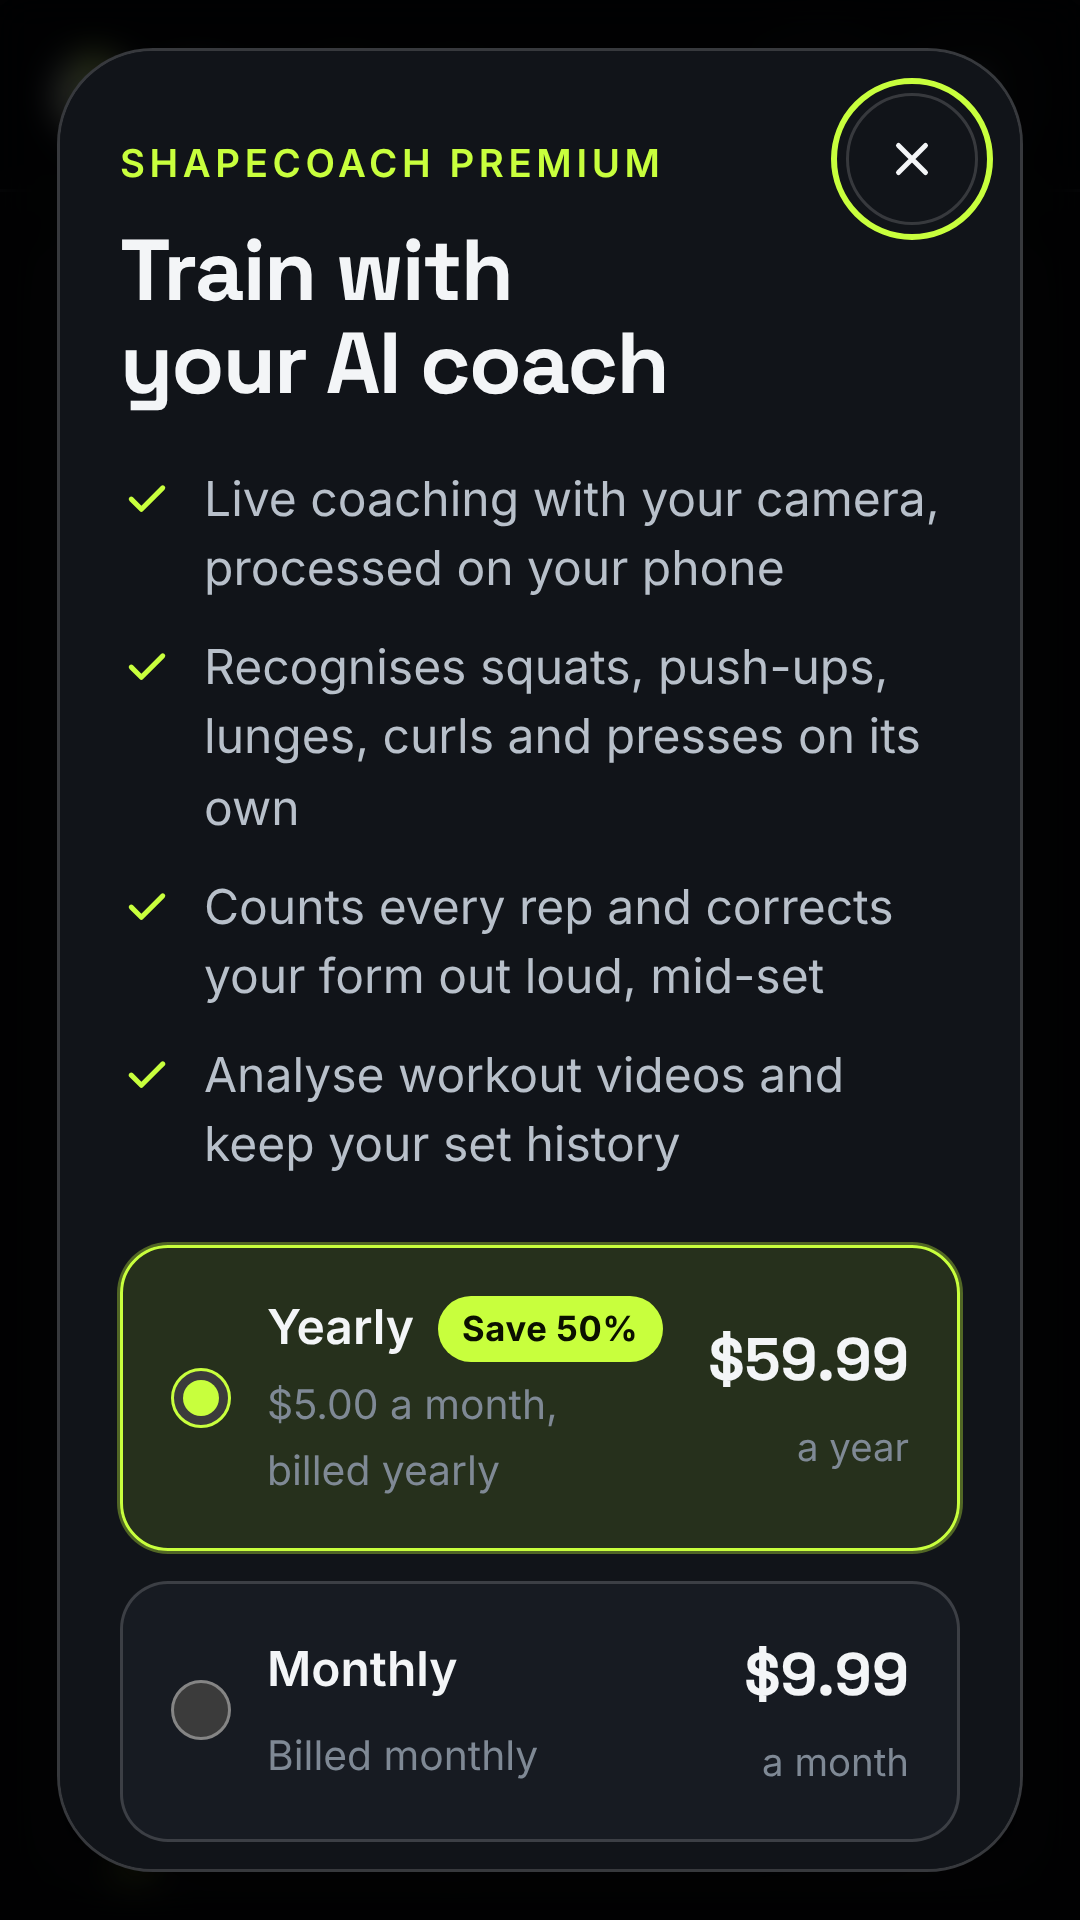
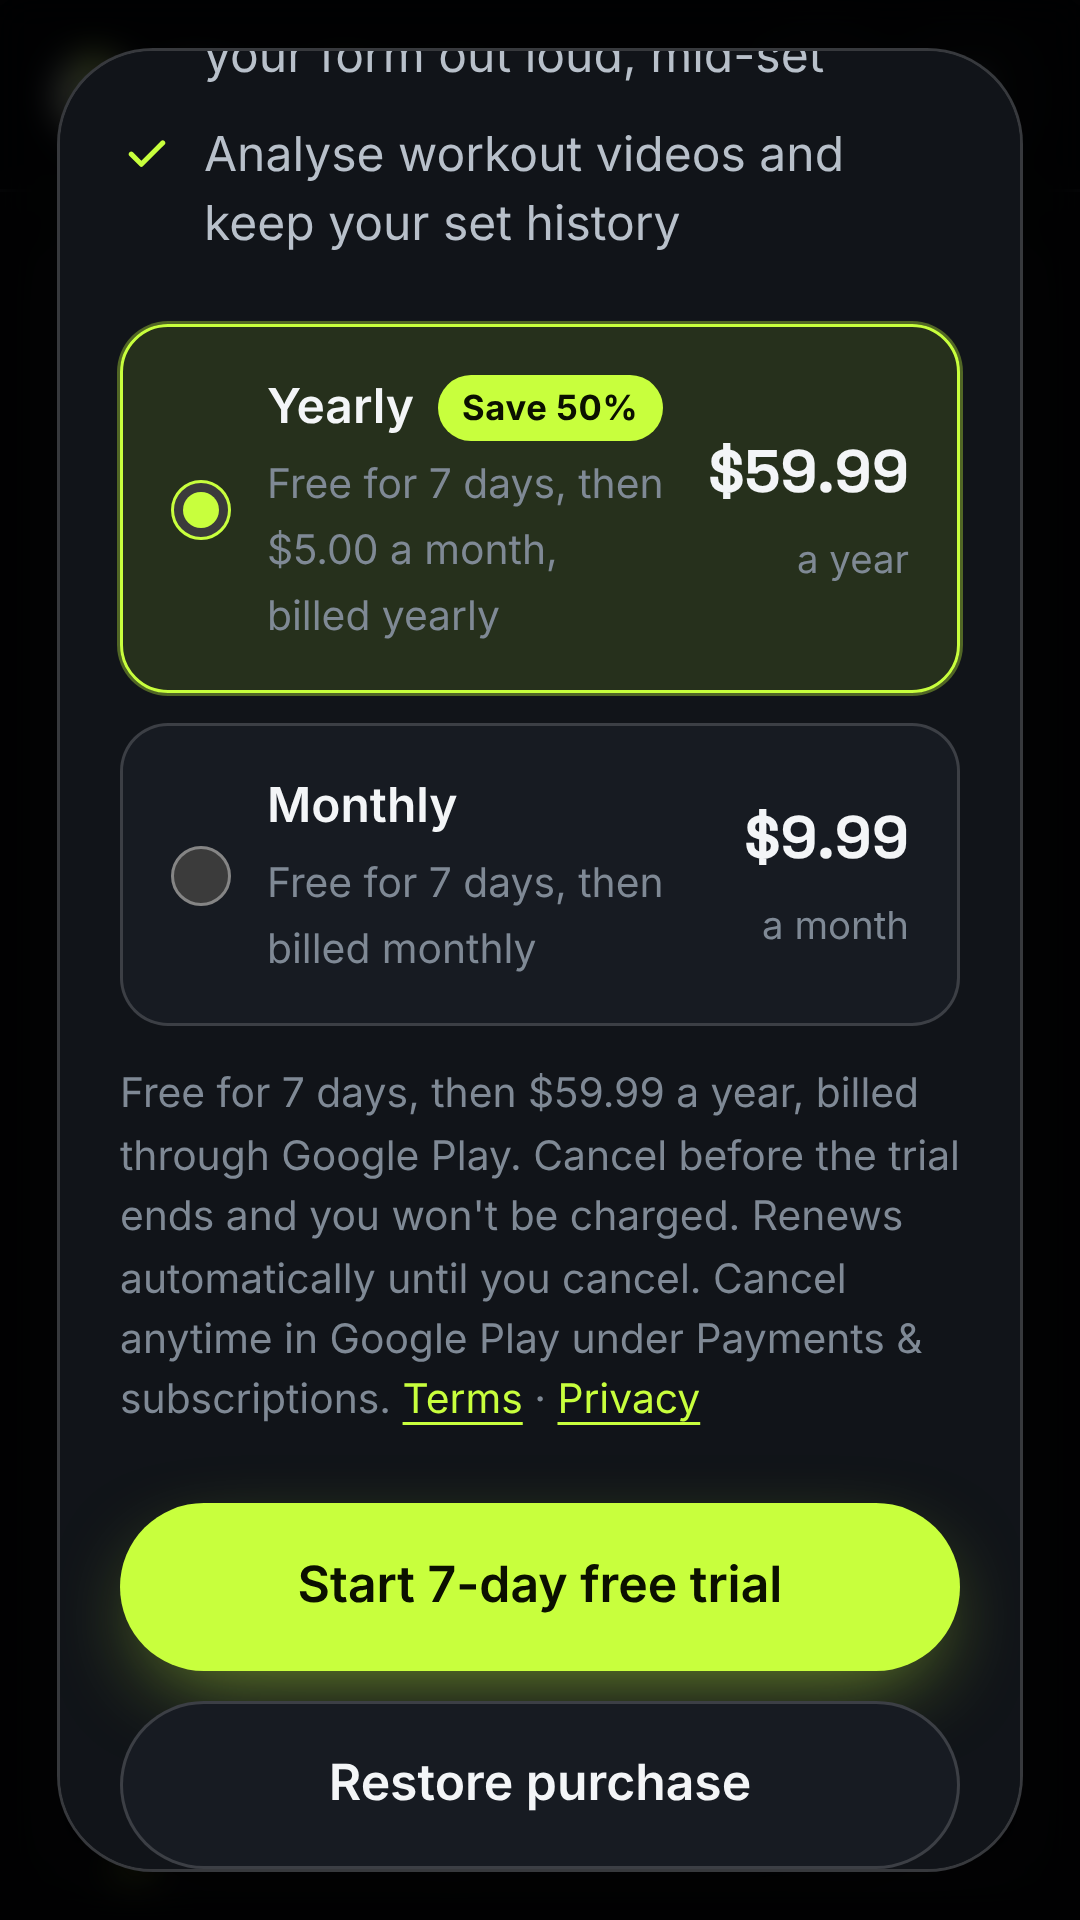
Show the 7-day free trial on the Premium screen
When Google Play reports a free trial for a plan (it only does for people who are
eligible), the plan card reads "Free for 7 days, then ...", the button becomes
"Start 7-day free trial" and the billing line states the price after the trial
and that cancelling during it costs nothing. Without a trial nothing changes.

Terms, FAQ, Play guide (a free-trial offer on both base plans, new customers
only), README and the Premium store screenshot updated.

Claude-Session: https://claude.ai/code/session_01N8dEFYZj9auM1hcHTL6znY

diff --git a/assets/js/app/main.js b/assets/js/app/main.js
@@ -1167,6 +1167,7 @@ const premium = {
 const paywall = {
   dialog: $('paywall-dialog'),
   plans: $('paywall-plans'),
+  billing: $('paywall-billing'),
   error: $('paywall-error'),
   subscribe: $('paywall-subscribe'),
   restore: $('paywall-restore'),
@@ -1195,13 +1196,13 @@ function renderPlans() {
   const cards = premium.plans.map((plan) => {
     const card = document.createElement('label');
     card.className = 'plan';
-    card.classList.toggle('is-selected', plan.id === premium.selected);
     const input = Object.assign(document.createElement('input'), { type: 'radio', name: 'plan', value: plan.id, checked: plan.id === premium.selected });
     const name = Object.assign(document.createElement('span'), { className: 'plan-name', textContent: plan.name });
     if (plan.save) name.append(Object.assign(document.createElement('span'), { className: 'plan-badge', textContent: `Save ${plan.save}%` }));
+    const billing = plan.perMonth ? `${plan.perMonth} a month, billed ${plan.name.toLowerCase()}` : `billed ${plan.name.toLowerCase()}`;
     const note = Object.assign(document.createElement('span'), {
       className: 'plan-note',
-      textContent: plan.perMonth ? `${plan.perMonth} a month, billed ${plan.name.toLowerCase()}` : `Billed ${plan.name.toLowerCase()}`,
+      textContent: plan.trial ? `Free for ${plan.trial.length}, then ${billing}` : billing.charAt(0).toUpperCase() + billing.slice(1),
     });
     const price = Object.assign(document.createElement('span'), { className: 'plan-price' });
     price.append(Object.assign(document.createElement('strong'), { textContent: plan.amount }), Object.assign(document.createElement('small'), { textContent: plan.period }));
@@ -1209,6 +1210,20 @@ function renderPlans() {
     return card;
   });
   paywall.plans.replaceChildren(...cards);
+  renderSelection();
+}
+
+/** The button and billing line follow the selected plan, including its free trial if any. */
+function renderSelection() {
+  const plan = premium.plans.find((p) => p.id === premium.selected);
+  for (const card of paywall.plans.querySelectorAll('.plan')) {
+    card.classList.toggle('is-selected', card.querySelector('input').value === premium.selected);
+  }
+  if (!plan) return;
+  paywall.subscribe.textContent = plan.trial ? `Start ${plan.trial.short} free trial` : 'Subscribe';
+  paywall.billing.textContent = plan.trial
+    ? `Free for ${plan.trial.length}, then ${plan.amount} ${plan.period}, billed through Google Play. Cancel before the trial ends and you won't be charged.`
+    : `Billed through Google Play: ${plan.amount} ${plan.period}.`;
 }
 
 function renderPremium() {
@@ -1220,7 +1235,7 @@ function renderPremium() {
   row.classList.toggle('is-active', premium.active);
   $('sub-status').textContent = premium.active
     ? 'Active. Thanks for training with ShapeCoach.'
-    : `Not subscribed · ${premium.plans.map((plan) => `${plan.amount} ${plan.period}`).join(' or ')}`;
+    : `Not subscribed · ${premium.plans.some((plan) => plan.trial) ? `${premium.plans.find((plan) => plan.trial).trial.length} free, then ` : ''}${premium.plans.map((plan) => `${plan.amount} ${plan.period}`).join(' or ')}`;
   $('sub-manage').href = manageUrl(premium.activePlan);
   $('sub-manage').hidden = !premium.active;
   $('sub-subscribe').hidden = premium.active;
@@ -1293,7 +1308,7 @@ async function onRestore() {
 paywall.plans.addEventListener('change', (event) => {
   if (event.target.name !== 'plan') return;
   premium.selected = event.target.value;
-  for (const card of paywall.plans.querySelectorAll('.plan')) card.classList.toggle('is-selected', card.contains(event.target));
+  renderSelection();
 });
 paywall.subscribe.addEventListener('click', onSubscribe);
 paywall.restore.addEventListener('click', onRestore);

diff --git a/assets/js/app/billing.js b/assets/js/app/billing.js
@@ -62,6 +62,17 @@ export function periodLabel(iso) {
   return count === 1 ? `a ${unit}` : `every ${count} ${unit}s`;
 }
 
+/**
+ * A free trial's length from an ISO 8601 period: P7D or P1W → { length: '7 days', short: '7-day' }.
+ * null when there is no trial.
+ */
+export function trialLabel(iso) {
+  const match = /^P(\d+)([DWM])$/.exec(String(iso ?? ''));
+  if (!match || Number(match[1]) === 0) return null;
+  const [count, unit] = match[2] === 'W' ? [Number(match[1]) * 7, 'day'] : [Number(match[1]), match[2] === 'D' ? 'day' : 'month'];
+  return { length: `${count} ${unit}${count === 1 ? '' : 's'}`, short: `${count}-${unit}` };
+}
+
 /** Length of a P<n>M or P<n>Y period in months; null for other periods. */
 function months(iso) {
   const match = /^P(\d+)([MY])$/.exec(String(iso ?? ''));
@@ -70,16 +81,22 @@ function months(iso) {
 
 /**
  * The plans as the paywall shows them, with Google Play's prices where it gave them.
- * @returns {Array<{id: string, name: string, amount: string, period: string, perMonth: string|null, save: number|null}>}
+ * @returns {Array<{id: string, name: string, amount: string, period: string, perMonth: string|null, save: number|null, trial: {length: string, short: string}|null}>}
  */
 export function describePlans(details = [], locale) {
   const plans = PLANS.map((plan) => {
     const item = details.find((d) => d.itemId === plan.id);
     const fromPlay = item?.price?.currency && item.price.value !== undefined;
-    return { id: plan.id, price: fromPlay ? item.price : plan.listPrice, period: (fromPlay && item.subscriptionPeriod) || plan.period };
+    return {
+      id: plan.id,
+      price: fromPlay ? item.price : plan.listPrice,
+      period: (fromPlay && item.subscriptionPeriod) || plan.period,
+      // Google Play reports a trial only to people eligible for it (new subscribers).
+      trial: fromPlay ? trialLabel(item.freeTrialPeriod) : null,
+    };
   });
   const monthly = plans.find((plan) => months(plan.period) === 1);
-  return plans.map(({ id, price, period }) => {
+  return plans.map(({ id, price, period, trial }) => {
     const length = months(period);
     const perMonth = length > 1 ? formatPrice({ currency: price.currency, value: Number(price.value) / length }, locale) : null;
     // Saving against paying monthly for the same time, only when both prices share a currency.
@@ -93,6 +110,7 @@ export function describePlans(details = [], locale) {
       period: periodLabel(period) ?? '',
       perMonth,
       save: save > 0 ? save : null,
+      trial,
     };
   });
 }

diff --git a/tests/billing.test.js b/tests/billing.test.js
@@ -3,7 +3,7 @@ import assert from 'node:assert/strict';
 import { generateKeyPairSync, createVerify } from 'node:crypto';
 
 import {
-  inAndroidApp, formatPrice, periodLabel, premiumStatus, subscribe, verifyPurchase, acknowledgeOwned, describePlans, manageUrl,
+  inAndroidApp, formatPrice, periodLabel, premiumStatus, subscribe, verifyPurchase, acknowledgeOwned, describePlans, manageUrl, trialLabel,
   PLAY_BILLING, PLAN_IDS, DEFAULT_PLAN,
 } from '../assets/js/app/billing.js';
 import handler, { signedAssertion, verifyAndAcknowledge, PACKAGE_NAME, PRODUCT_IDS } from '../api/verify-purchase.js';
@@ -55,9 +55,23 @@ test('two plans: yearly (the default, best value) and monthly, at their list pri
   assert.equal(DEFAULT_PLAN, YEARLY);
   assert.deepEqual(PRODUCT_IDS.slice().sort(), PLAN_IDS.slice().sort(), 'the server accepts exactly the app\'s plans');
   assert.deepEqual(describePlans([], 'en-US'), [
-    { id: YEARLY, name: 'Yearly', amount: '$59.99', period: 'a year', perMonth: '$5.00', save: 50 },
-    { id: MONTHLY, name: 'Monthly', amount: '$9.99', period: 'a month', perMonth: null, save: null },
+    { id: YEARLY, name: 'Yearly', amount: '$59.99', period: 'a year', perMonth: '$5.00', save: 50, trial: null },
+    { id: MONTHLY, name: 'Monthly', amount: '$9.99', period: 'a month', perMonth: null, save: null, trial: null },
   ]);
+});
+
+test('a free trial is shown only when Google Play reports one for this person', () => {
+  assert.deepEqual(trialLabel('P7D'), { length: '7 days', short: '7-day' });
+  assert.deepEqual(trialLabel('P1W'), { length: '7 days', short: '7-day' });
+  assert.deepEqual(trialLabel('P1M'), { length: '1 month', short: '1-month' });
+  assert.equal(trialLabel(''), null);
+  assert.equal(trialLabel(undefined), null);
+  const withTrial = describePlans([
+    { itemId: YEARLY, price: { currency: 'USD', value: '59.99' }, subscriptionPeriod: 'P1Y', freeTrialPeriod: 'P7D' },
+    { itemId: MONTHLY, price: { currency: 'USD', value: '9.99' }, subscriptionPeriod: 'P1M', freeTrialPeriod: '' },
+  ], 'en-US');
+  assert.deepEqual(withTrial.map((p) => p.trial), [{ length: '7 days', short: '7-day' }, null], 'already used the monthly trial');
+  assert.ok(describePlans([], 'en-US').every((p) => p.trial === null), 'no promise of a trial before Google Play answers');
 });
 
 test('plans use Google Play\'s local prices, and the saving follows them', () => {

diff --git a/index.html b/index.html
@@ -89,7 +89,7 @@
           </div>
           <ul class="hero-proof">
             <li><svg aria-hidden="true"><use href="#i-check"/></svg> No exercise to pick</li>
-            <li><svg aria-hidden="true"><use href="#i-check"/></svg> Free to download</li>
+            <li><svg aria-hidden="true"><use href="#i-check"/></svg> Free to download, 7 days free</li>
             <li><svg aria-hidden="true"><use href="#i-check"/></svg> No account needed</li>
             <li><svg aria-hidden="true"><use href="#i-check"/></svg> Video never leaves your phone</li>
           </ul>
@@ -319,7 +319,7 @@
           </details>
           <details>
             <summary>How much does it cost?</summary>
-            <p>ShapeCoach is free to download from Google Play. The live coach and video analysis are part of ShapeCoach Premium: US$9.99 a month, or US$59.99 a year (half the monthly price), billed by Google Play (the price in your currency is shown before you pay). It renews at the end of each month or year until you cancel, which you can do at any time in Google Play under Payments &amp; subscriptions. A short demo inside the app is free.</p>
+            <p>ShapeCoach is free to download from Google Play. The live coach and video analysis are part of ShapeCoach Premium, which new subscribers can try free for 7 days. After that it is US$9.99 a month, or US$59.99 a year (half the monthly price), billed by Google Play (the price in your currency is shown before you pay). It renews at the end of each month or year until you cancel, which you can do at any time in Google Play under Payments &amp; subscriptions. A short demo inside the app is free.</p>
           </details>
           <details>
             <summary>Can I use ShapeCoach in my browser?</summary>

diff --git a/terms.html b/terms.html
@@ -25,7 +25,7 @@
   </header>
   <main class="doc container">
     <h1>Terms of use</h1>
-    <p class="doc-meta">Last updated: 23 October 2026</p>
+    <p class="doc-meta">Last updated: 24 October 2026</p>
 
     <p>These terms apply to the ShapeCoach Android app and the ShapeCoach website, which describes the app. By using ShapeCoach you agree to them.</p>
 
@@ -35,6 +35,7 @@
     <h2>ShapeCoach Premium subscription</h2>
     <ul>
       <li><strong>Plans and prices:</strong> Monthly, US$9.99 per month, or Yearly, US$59.99 per year. Google Play shows the price in your local currency, including any taxes, before you confirm.</li>
+      <li><strong>Free trial:</strong> new subscribers can start either plan with a 7-day free trial. Google Play decides who is eligible (one trial per person) and shows the trial before you confirm. If you cancel before the trial ends, you won't be charged; otherwise the plan's price is charged when the trial ends.</li>
       <li><strong>Billing:</strong> your Google Play account is charged when you confirm the purchase (or when a free trial ends, if one is offered), and then at the start of each billing period: every month on the Monthly plan, every year on the Yearly plan.</li>
       <li><strong>Automatic renewal:</strong> the subscription renews automatically at the end of each billing period until you cancel.</li>
       <li><strong>Cancelling:</strong> cancel at any time in the Google Play Store app under <strong>Profile › Payments &amp; subscriptions › Subscriptions › ShapeCoach</strong>, or at <a class="text-link" href="https://play.google.com/store/account/subscriptions">play.google.com/store/account/subscriptions</a>. You keep Premium until the end of the period you have paid for.</li>

diff --git a/app.html b/app.html
@@ -251,7 +251,7 @@
         <li><svg aria-hidden="true"><use href="#i-check"/></svg> Analyse workout videos and keep your set history</li>
       </ul>
       <div class="paywall-plans" id="paywall-plans" role="radiogroup" aria-label="Choose a plan"></div>
-      <p class="paywall-terms">Billed through Google Play at the start of each month or year. Renews automatically until you cancel. Cancel anytime in Google Play under Payments &amp; subscriptions. <a class="text-link" href="terms.html">Terms</a> · <a class="text-link" href="privacy.html">Privacy</a></p>
+      <p class="paywall-terms"><span id="paywall-billing">Billed through Google Play at the start of each month or year.</span> Renews automatically until you cancel. Cancel anytime in Google Play under Payments &amp; subscriptions. <a class="text-link" href="terms.html">Terms</a> · <a class="text-link" href="privacy.html">Privacy</a></p>
       <p class="intro-error" id="paywall-error" role="alert" hidden></p>
       <div class="dialog-actions">
         <button class="btn btn-primary btn-lg" type="button" id="paywall-subscribe">Subscribe</button>

diff --git a/docs/PLAY_STORE.md b/docs/PLAY_STORE.md
@@ -12,9 +12,10 @@ page in a normal browser redirects to it.
 | --- | --- |
 | App name | ShapeCoach |
 | Package name | `net.shapecoach.app` (permanent once uploaded) |
-| Version | 1.1.3 (version code 5) |
+| Version | 1.1.4 (version code 6) |
 | Monthly subscription | product ID `shapecoach_premium`, base plan `monthly`, 1 month, US$9.99 |
 | Yearly subscription | product ID `shapecoach_premium_yearly`, base plan `yearly`, 1 year, US$59.99 |
+| Free trial | offer `free-trial` on each base plan: 7 days free, new customers only |
 | Website (app content) | https://shapecoach-theta.vercel.app |
 | Privacy policy | https://shapecoach-theta.vercel.app/privacy.html |
 | Terms | https://shapecoach-theta.vercel.app/terms.html |
@@ -24,9 +25,10 @@ page in a normal browser redirects to it.
 
 ## What you need
 
-- **`shapecoach-1.1.3.aab`**: the signed release bundle to upload. It replaces every earlier
-  bundle (1.0.0 to 1.1.2, which can't use Google Play Billing); if you already uploaded one of
-  those, upload this as a new release. It is built by the *Android app* GitHub workflow (unsigned, on the `android-build`
+- **`shapecoach-1.1.4.aab`**: the signed release bundle to upload. It replaces every earlier
+  bundle (1.0.0 to 1.1.3: up to 1.1.2 can't use Google Play Billing, and 1.1.3 could charge a
+  person eligible for the free trial straight away); if you already uploaded one of those, upload
+  this as a new release. It is built by the *Android app* GitHub workflow (unsigned, on the `android-build`
   branch) and signed with the upload key.
 - **`shapecoach-upload.jks`** and its password: the **upload key**. Keep both private and backed
   up (for example in a password manager). Never commit them. You need them for every update; if
@@ -62,7 +64,7 @@ that a free app can't be changed to paid later.)
 1. Test and release → Testing → **Internal testing** (just you, available within minutes) →
    Create new release.
 2. Keep **Google-generated key** for Play App Signing when asked.
-3. Upload `shapecoach-1.1.3.aab`, add release notes ("First release"), save and roll out.
+3. Upload `shapecoach-1.1.4.aab`, add release notes ("First release"), save and roll out.
 4. Add yourself as a tester and install the app from the opt-in link on your phone.
 
 ## 4. Create the two subscriptions
@@ -83,10 +85,19 @@ only after a bundle with the billing permission is uploaded, which step 3 did.)
 2. Add a base plan: ID **`yearly`**, auto-renewing, billing period **1 year**, price
    **US$59.99**. Let Play set local prices, then **Activate** it.
 
+**7-day free trial** (do this for both base plans)
+
+1. Open the base plan → **Add offer**. Offer ID **`free-trial`**.
+2. Eligibility: **New customer acquisition** → **Never had any subscription** (one trial per
+   person, so nobody can take the monthly trial and then the yearly one).
+3. Add a phase: **Free trial**, duration **7 days**. Save and **Activate**.
+
 Each plan must be its own subscription with **one** base plan: through the Digital Goods API the
 app sees only the first eligible base plan of each subscription. The app shows both plans with
 Google Play's local prices, preselects Yearly and labels its saving against paying monthly
-("Save 50%" at the US prices). Optional free-trial offers are shown as Google Play offers them.
+("Save 50%" at the US prices). It shows the trial ("Start 7-day free trial") only to people
+Google Play says are eligible, and its purchase screen (`TrialPaymentActivity`) buys the
+free-trial offer for them and the plain plan for everyone else.
 If you already created `shapecoach_premium` at US$14.99, change its base plan price to US$9.99
 (new subscribers get the new price straight away).
 
@@ -135,8 +146,9 @@ data (or reinstall the app) after updating.
 2. Open the app: the ShapeCoach Premium screen appears straight away, with the price from Google
    Play. Subscribe and check that the camera coach starts. Settings in the app shows *ShapeCoach
    Premium: Active* and a **Manage** link.
-3. Try both plans with a license tester. In Play Console → **Order management**, each test order
-   should show as acknowledged.
+3. Try both plans with license testers. A tester who never subscribed should see "Start 7-day
+   free trial" and a free trial in Google Play's purchase sheet; test trials last a few minutes.
+   In Play Console → **Order management**, each test order should show as acknowledged.
 
 ## 8. App content (Policy and programs → App content)
 
@@ -147,7 +159,8 @@ data (or reinstall the app) after updating.
   subscribing, tap *Watch the free demo instead* at the bottom of that screen: the demo runs the
   full coaching experience (exercise recognition, rep counting, form cues and voice) on a
   recorded athlete. The live camera coach and video analysis need the ShapeCoach Premium
-  subscription (US$9.99 a month or US$59.99 a year) through Google Play Billing. No login is needed."
+  subscription (7 days free for new subscribers, then US$9.99 a month or US$59.99 a year) through
+  Google Play Billing. No login is needed."
 - **Content rating**: complete the questionnaire (category: all other app types). Answer no to
   violence, sexuality, language, controlled substances, gambling, user interaction/sharing and
   location; yes to digital purchases.
@@ -187,8 +200,8 @@ data (or reinstall the app) after updating.
   > • Workout summaries with form score, clean reps and time per rep
   > • Private by design: pose tracking runs on your phone and video is never uploaded
   >
-  > ShapeCoach Premium unlocks the live camera coach and video analysis for US$9.99 a month, or
-  > US$59.99 a year (half the monthly price). Prices are shown in your local currency before you
+  > Try ShapeCoach Premium free for 7 days. It unlocks the live camera coach and video analysis,
+  > then costs US$9.99 a month, or US$59.99 a year (half the monthly price). Prices are shown in your local currency before you
   > subscribe. The subscription renews at the end of each month or year until you cancel in Google
   > Play. A demo is free.
   >
@@ -220,7 +233,7 @@ installed app gets them immediately. Rebuild the Android bundle only to change t
    `android/twa-manifest.json`.
 2. Push; the *Android app* workflow publishes the unsigned bundle to the `android-build` branch,
    and its emulator job publishes screenshots and a report to `android-build/smoke/`.
-3. Sign it: `scripts/sign-android.sh shapecoach-unsigned.aab shapecoach-upload.jks shapecoach-1.1.4.aab`.
+3. Sign it: `scripts/sign-android.sh shapecoach-unsigned.aab shapecoach-upload.jks shapecoach-1.1.5.aab`.
 4. Upload it as a new release.
 
 ### Moving to your own domain

diff --git a/README.md b/README.md
@@ -193,7 +193,7 @@ scripts/          dev server, Android bundle signing, Android emulator smoke tes
 (package `net.shapecoach.app`) that opens `app.html?source=android` in Chrome, so the camera,
 pose model and voice behave exactly as on the web. Inside the app, the live coach and video
 analysis need **ShapeCoach Premium**: Monthly (`shapecoach_premium`, US$9.99) or Yearly
-(`shapecoach_premium_yearly`, US$59.99), sold through Google
+(`shapecoach_premium_yearly`, US$59.99), each with a 7-day free trial for new subscribers, sold through Google
 Play Billing via the Digital Goods and Payment Request APIs (`assets/js/app/billing.js`). Each
 purchase is acknowledged by `api/verify-purchase.js`; Play refunds unacknowledged subscriptions
 after three days. The app opens on the Premium offer for anyone not subscribed; the in-app demo
